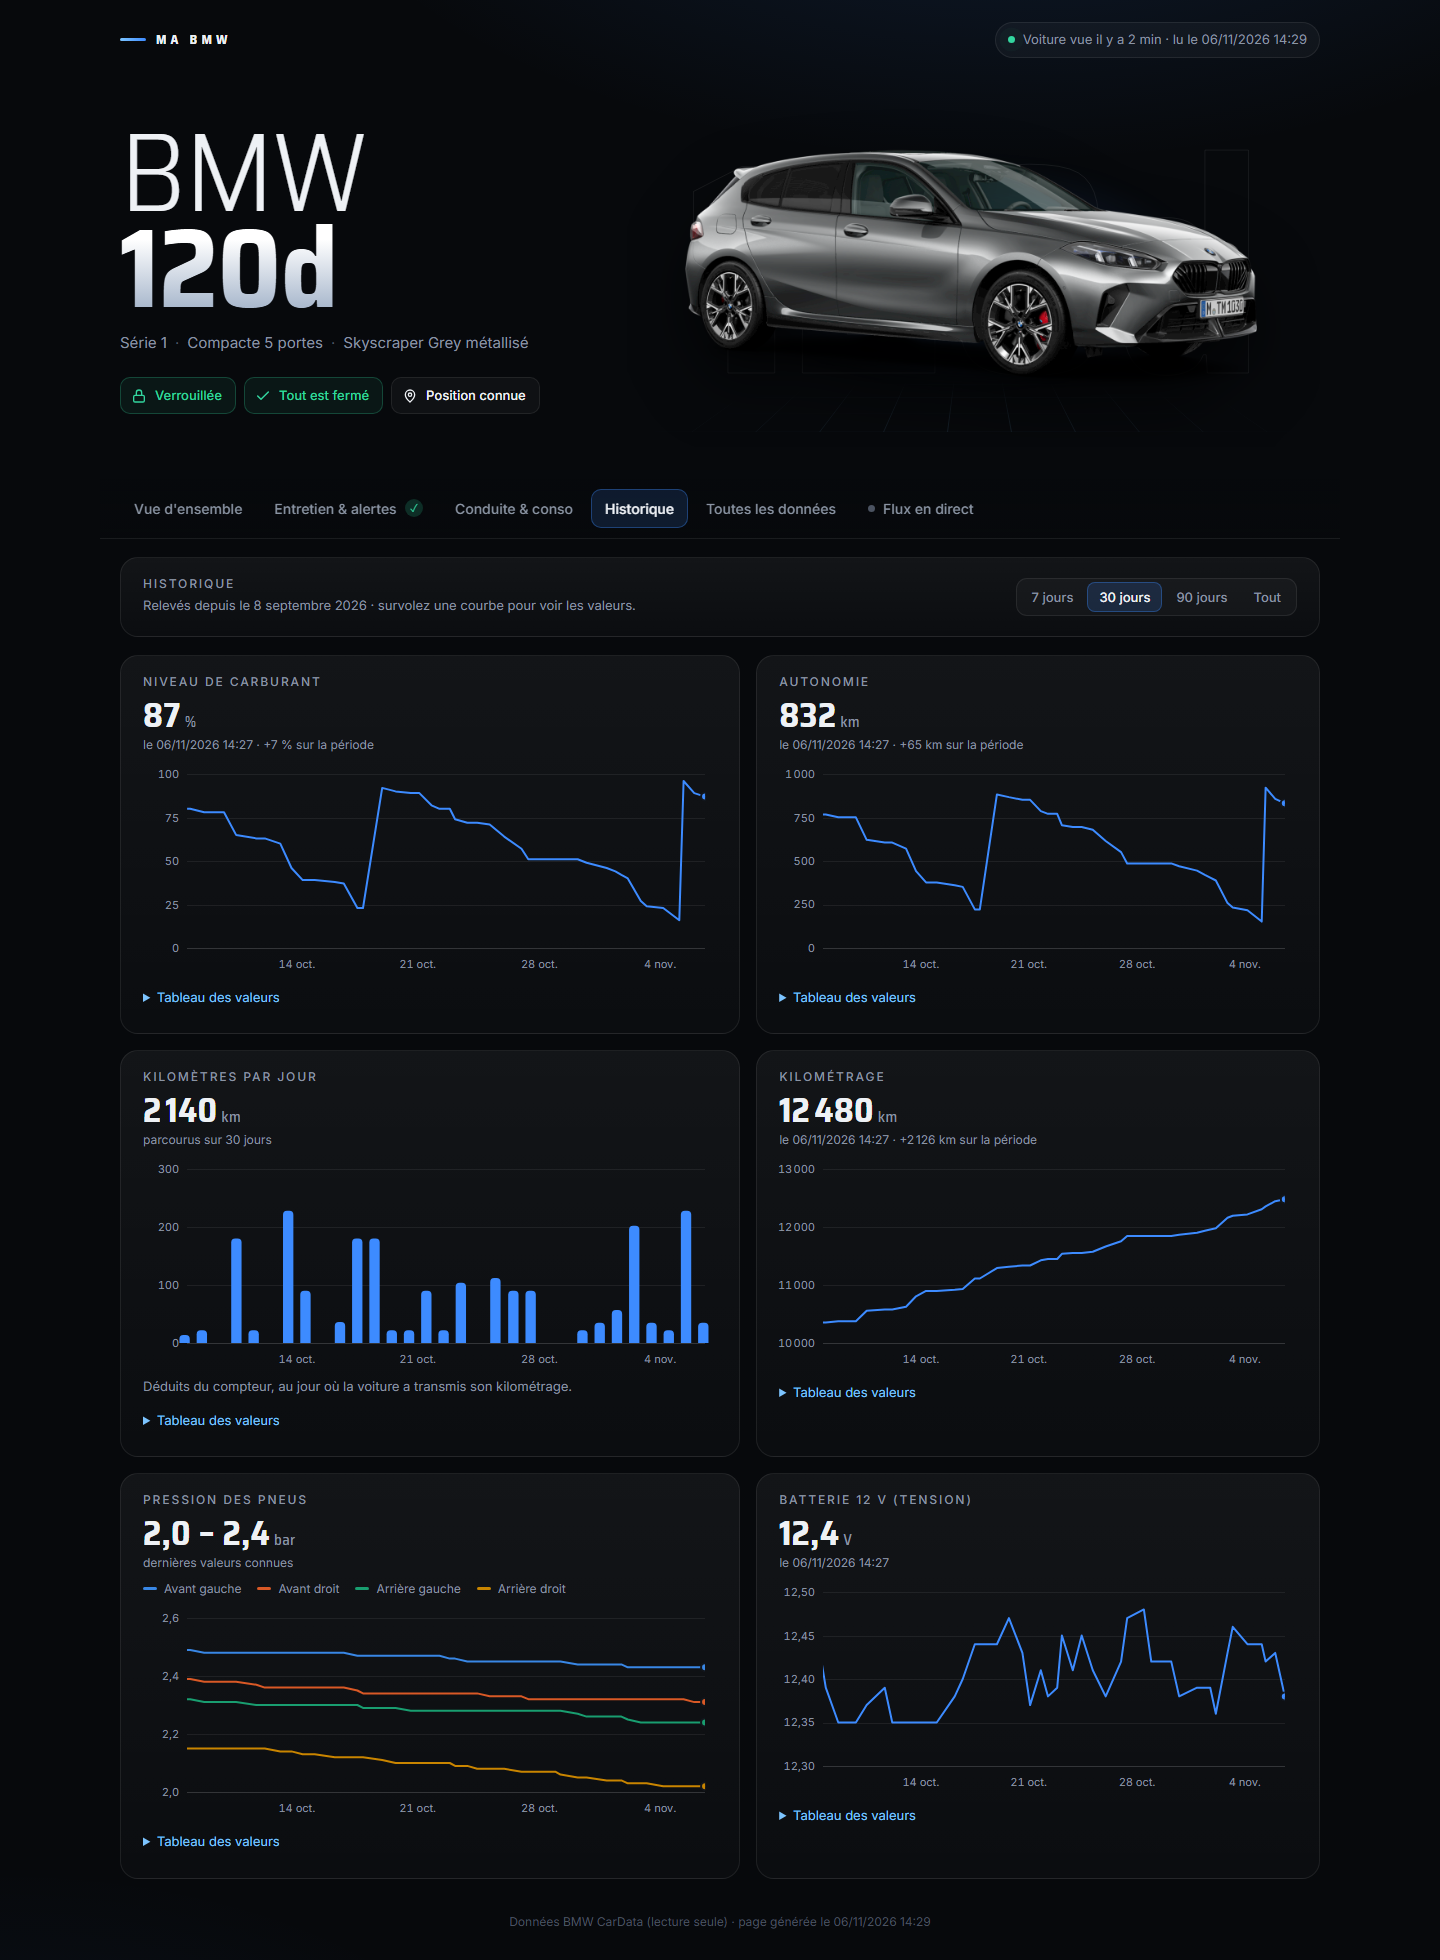
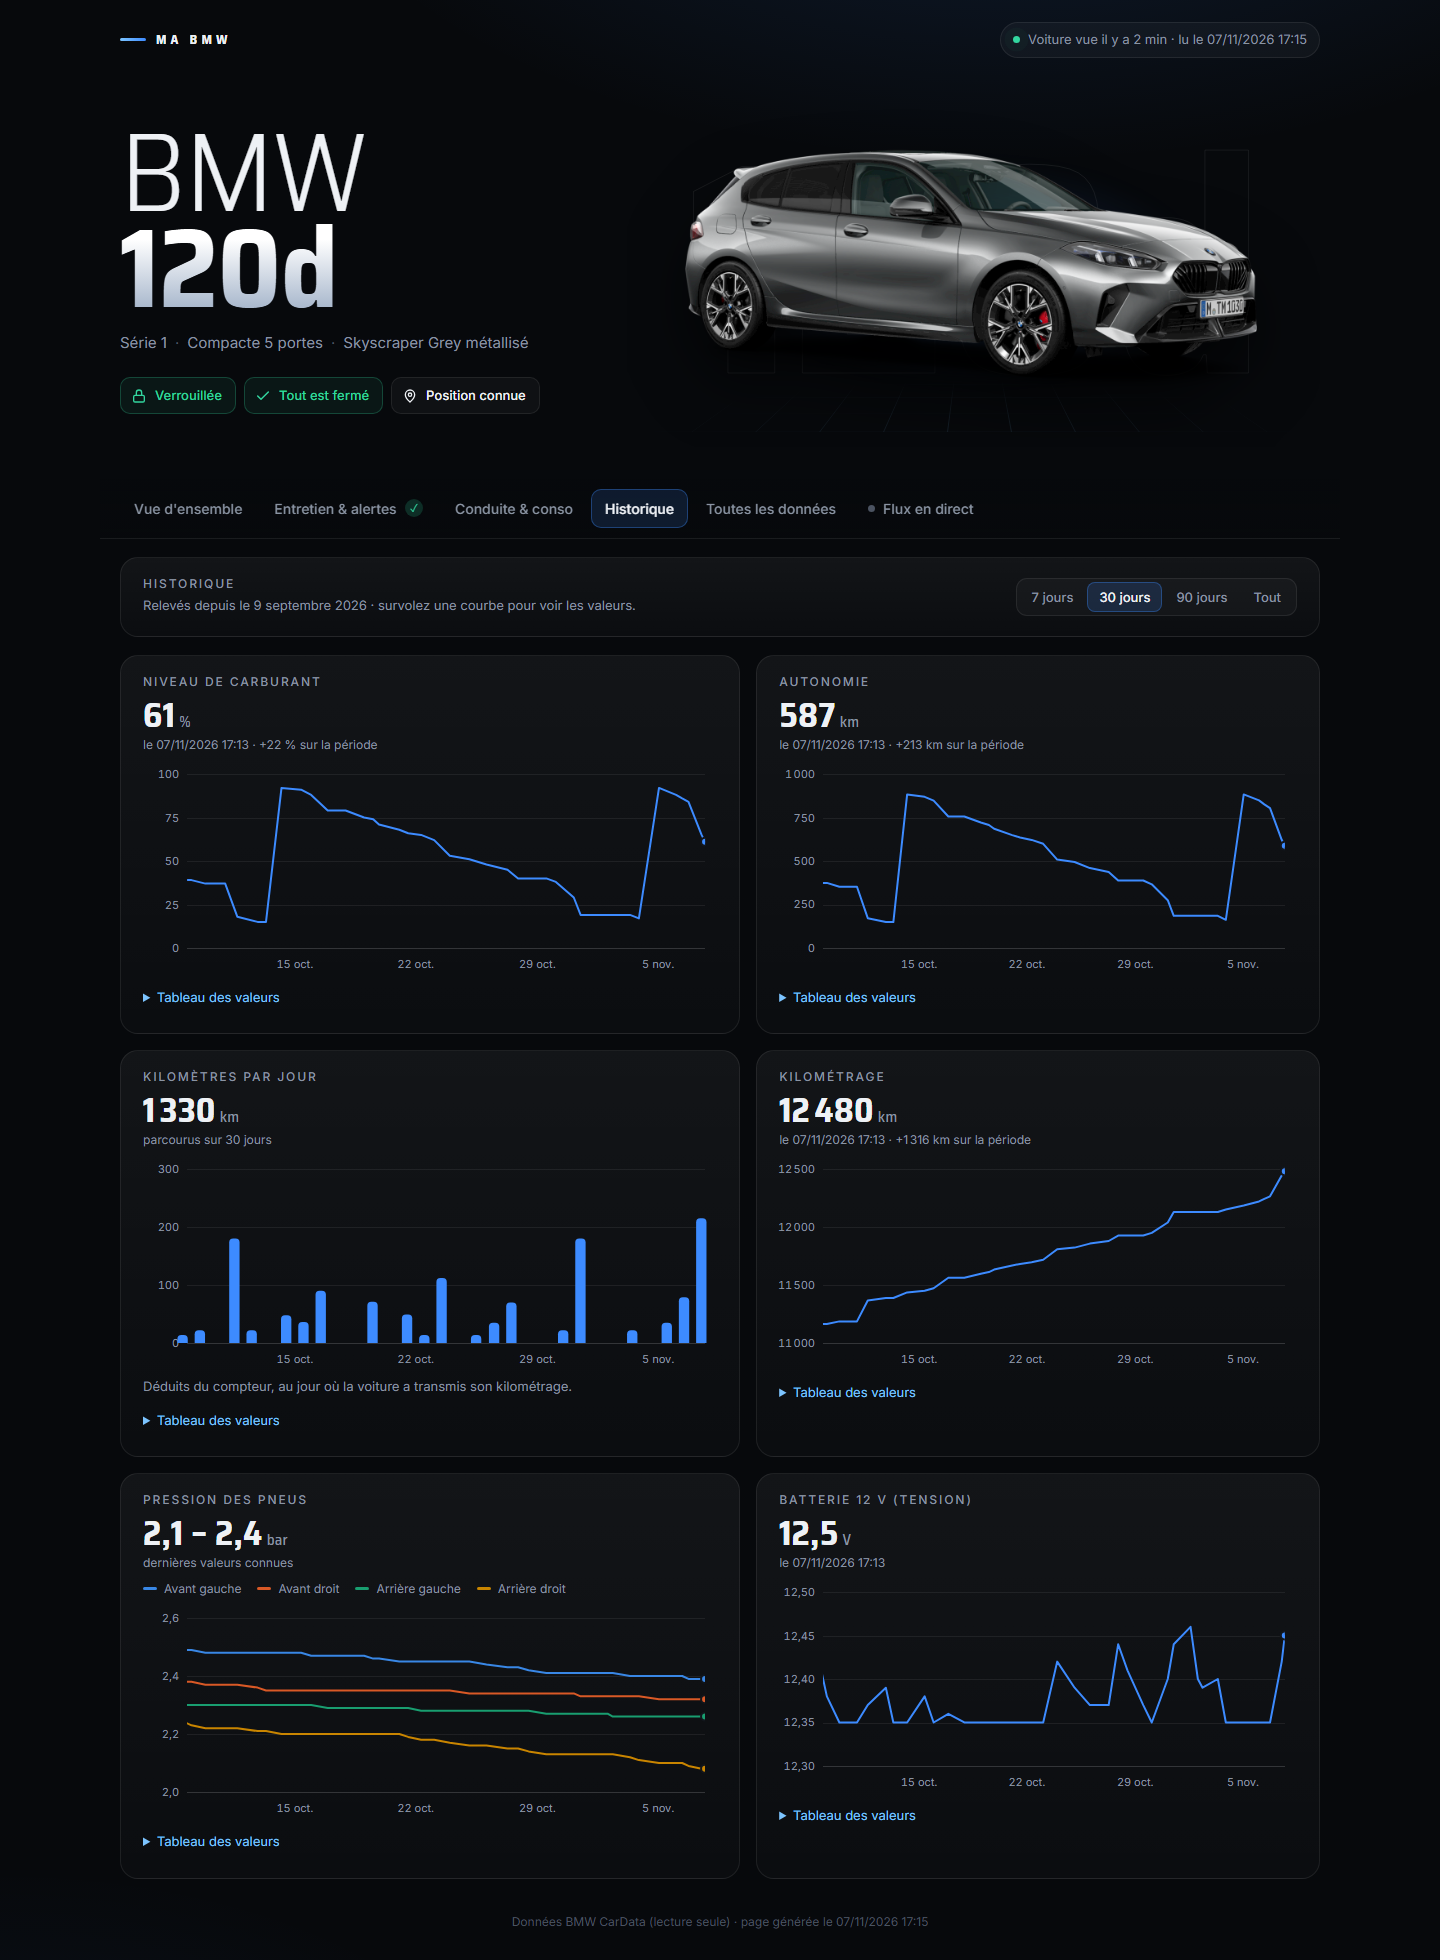
Conduite & conso : consommation estimée depuis le dernier plein
- BMW ne transmet ni la consommation depuis le plein ni celle du dernier
  trajet. since_refuel() l'estime d'après l'historique : plein repéré
  quand le niveau remonte d'au moins 10 points, % consommés convertis en
  litres, rapportés aux km parcourus, avec la marge d'erreur (niveau au
  % près). Sans plein dans l'historique, calcul depuis le premier relevé.
- Capacité du réservoir dans config.json (« tank_liters », facultatif) ;
  sans elle, la carte affiche le % du réservoir consommé.
- Démo : réservoir de 49 L et consommation réaliste ; captures refaites.
- README : description de la carte et de tank_liters.

diff --git a/dashboard_template.html b/dashboard_template.html
@@ -472,6 +472,11 @@ footer { color: var(--faint); font-size: 12px; text-align: center; padding: 34px
         <div class="hero-num num" id="conso">—</div>
         <div class="hint" id="consoHint"></div>
       </article>
+      <article class="card">
+        <h2 id="refuelTitle">Depuis le dernier plein <span class="tag">estimé</span></h2>
+        <div class="hero-num num" id="refuel">—</div>
+        <div class="hint" id="refuelHint"></div>
+      </article>
       <article class="card"><h2>Habitudes de conduite</h2><div id="habitList"></div></article>
       <article class="card">
         <h2>Orientation &amp; altitude</h2>
@@ -1077,6 +1082,26 @@ function renderItems(list) {
     $("conso").innerHTML = `${fmt(fuelL / refKm * 100, 1)}<small>L/100 km</small>`;
     $("consoHint").textContent = `${fmt(fuelL)} L consommés sur ${fmt(refKm)} km (compteur officiel OBFCM).`;
   } else $("consoHint").textContent = "Pas encore transmis par la voiture.";
+
+  /* conso depuis le plein : estimée par le script (niveau du réservoir en % et compteur) */
+  (() => {
+    const r = DATA.sinceRefuel, el = $("refuel"), hint = $("refuelHint");
+    if (!r) { hint.textContent = "Pas encore assez de relevés du niveau de carburant."; return; }
+    const since = new Date(r.since), when = isNaN(since) ? "" : since.toLocaleDateString("fr-FR", { day: "numeric", month: "long" });
+    if (!r.refuel) $("refuelTitle").firstChild.textContent = `Depuis le ${when} `;
+    const base = `${fmt(r.km)} km parcourus, niveau passé de ${fmt(r.startLevel)} % à ${fmt(r.level)} %`;
+    const from = r.refuel ? `Plein repéré le ${when}. ` : "Aucun plein repéré dans l'historique : calcul depuis le premier relevé. ";
+    if (!r.tank) {
+      el.innerHTML = `${fmt(r.usedPct)}<small>% du réservoir</small>`;
+      hint.textContent = `${from}${base}. Indiquez la capacité du réservoir (« tank_liters » dans config.json) pour obtenir des litres.`;
+    } else if (r.l100 == null || r.km < 20) {
+      el.innerHTML = `${fmt(r.liters, 1)}<small>L</small>`;
+      hint.textContent = `${from}${base}. Pas encore assez de kilomètres pour une consommation fiable.`;
+    } else {
+      el.innerHTML = `≈ ${fmt(r.l100, 1)}<small>L/100 km</small>`;
+      hint.textContent = `${from}≈ ${fmt(r.liters, 1)} L consommés en ${fmt(r.km)} km (niveau de ${fmt(r.startLevel)} % à ${fmt(r.level)} %, réservoir de ${fmt(r.tank)} L). Le niveau n'est connu qu'au % près : à ± ${fmt(r.margin, 1)} L/100 km, de plus en plus précis avec les kilomètres.`;
+    }
+  })();
 
   const km = num("vehicle.vehicle.travelledDistance");
   const lo = num("vehicle.vehicle.speedRange.lowerBound"), hi = num("vehicle.vehicle.speedRange.upperBound");

diff --git a/bmw_cardata.py b/bmw_cardata.py
@@ -680,6 +680,58 @@ def save_history(data, source, received=None):
         print(f"Base {HISTORY_DB.name} : écriture impossible ({e}).")
 
 
+REFUEL_MIN_RISE = 10  # hausse du niveau (points de %) qui signale un plein
+
+
+def since_refuel(telematic, tank_liters):
+    """Consommation estimée depuis le dernier plein, d'après le niveau du réservoir (en %) et le
+    compteur. BMW ne transmet pas cette donnée : le niveau n'a qu'une précision de 1 %, donc
+    l'estimation s'affine avec les kilomètres. Renvoie None s'il n'y a pas de quoi calculer."""
+    lvl_key, odo_key = "vehicle.drivetrain.fuelSystem.level", "vehicle.vehicle.travelledDistance"
+    series = {lvl_key: {}, odo_key: {}}
+    try:
+        with closing(open_db()) as db:
+            for k, t, v in db.execute("SELECT cle, t, valeur FROM mesures WHERE cle IN (?, ?)", (lvl_key, odo_key)):
+                if isinstance(v, (int, float)):
+                    series[k][t] = v
+    except sqlite3.Error as e:
+        print(f"Base {HISTORY_DB.name} : lecture impossible ({e}).")
+    for k in series:  # dernière valeur connue, au cas où elle ne serait pas encore dans la base
+        e = (telematic or {}).get(k)
+        dt = parse_time(e.get("timestamp")) if isinstance(e, dict) else None
+        if dt:
+            try:
+                series[k][dt.timestamp()] = float(e.get("value"))
+            except (TypeError, ValueError):
+                pass
+    lvl, odo = sorted(series[lvl_key].items()), sorted(series[odo_key].items())
+    if len(lvl) < 2 or not odo:
+        return None
+    start, refuel = 0, False
+    for i in range(1, len(lvl)):
+        if lvl[i][1] - lvl[i - 1][1] >= REFUEL_MIN_RISE:
+            start, refuel = i, True
+    t0, l0 = lvl[start]
+    # le niveau remonte parfois d'un point après le plein (voiture à plat) : on part du plus haut
+    l0 = max(v for t, v in lvl[start:] if t - t0 < 3600)
+    t1, l1 = lvl[-1]
+    before = [v for t, v in odo if t <= t0]
+    km0 = before[-1] if before else next((v for t, v in odo if t - t0 < 86400), None)
+    if km0 is None:
+        return None
+    km = max(0, odo[-1][1] - km0)
+    used_pct = max(0, l0 - l1)
+    out = {"since": datetime.fromtimestamp(t0, timezone.utc).isoformat(), "refuel": refuel,
+           "startLevel": l0, "level": l1, "km": km, "usedPct": used_pct, "tank": tank_liters}
+    if tank_liters:
+        out["liters"] = round(used_pct / 100 * tank_liters, 1)
+        if km > 0:
+            out["l100"] = round(out["liters"] / km * 100, 1)
+            # ±1 point de % à chaque bout : marge de l'estimation
+            out["margin"] = round(2 / 100 * tank_liters / km * 100, 1)
+    return out
+
+
 HISTORY_ONE_MAX = 5000  # valeurs renvoyées au plus pour une donnée (onglet « Toutes les données »)
 
 
@@ -758,6 +810,7 @@ def render_dashboard(vin, telematic, fetched_at, fetched_iso=None, live=False, p
         "catalogue": {k: v.get("name") for k, v in (load_json(CATALOGUE_FILE, {}) or {}).items()},
         "streamLog": list(LiveState.log)[-STREAM_LOG_IN_PAGE:] if live else read_stream_history(),
         "history": build_history(telematic),
+        "sinceRefuel": since_refuel(telematic, (load_json(CONFIG_FILE, {}) or {}).get("tank_liters")),
         "live": live,
     }
     blob = json.dumps(payload, ensure_ascii=False).replace("</", "<\\/")

diff --git a/outils/captures_demo.py b/outils/captures_demo.py
@@ -36,6 +36,8 @@ def build_page():
     b.LAST_FILE = OUT / "derniere_lecture.json"
     b.HISTORY_DB = OUT / "historique.db"
     b.HISTORY_DB.unlink(missing_ok=True)  # recréée à partir des journaux fictifs ci-dessous
+    b.CONFIG_FILE = OUT / "config.json"  # seulement la capacité du réservoir (conso depuis le plein)
+    b.CONFIG_FILE.write_text(json.dumps({"tank_liters": 49}), encoding="utf-8")
     b.PROFILE_FILE.write_text(json.dumps({
         "brand": "BMW", "modelName": "120d", "series": "1", "seriesDevt": "F70", "bodyType": "Sports Hatch",
         "numberOfDoors": 5, "driveTrain": "MHEV", "propulsionType": "DI", "engine": "B47L",
@@ -57,7 +59,7 @@ def build_page():
         t = min(t + timedelta(hours=random.uniform(6, 30)), end)
         km = random.choice([0, 0, 14, 22, 35, 48, 90, 180])
         odo += km
-        fuel -= km * 0.075
+        fuel -= km * 0.105  # % du réservoir de 49 L par km : environ 5,1 L/100 km
         if fuel < 14:
             fuel = random.choice([92, 96, 100])
         volt = min(12.9, max(12.35, volt + random.uniform(-.05, .05) + (.02 if km > 40 else -.015)))

diff --git a/README.md b/README.md
@@ -300,12 +300,15 @@ Avec `-AvecDonnees`, les données déjà présentes sur le serveur sont mises de
 |---|---|
 | **Vue d'ensemble** | Photo officielle de la voiture (commande `profile`), jauge de carburant, compteur, prochain entretien (les km restants donnés par BMW moins ceux parcourus depuis, marqués « estimé »), vue de dessus (portes, vitres, coffre, capot, toit ouvrant, pneus), carte de la position (déplaçable, avec un bouton pour recentrer sur la voiture), fiche technique |
 | **Entretien & alertes** | Voyants Check Control, entretien détaillé (huile, liquide de frein…), échéances, batteries, alarme, mémoire des défauts |
-| **Conduite & conso** | Consommation moyenne réelle (compteur officiel OBFCM), habitudes de conduite, cap et altitude, moteur, navigation, programmateurs de clim |
+| **Conduite & conso** | Consommation moyenne réelle (compteur officiel OBFCM), [consommation depuis le dernier plein](#conso-plein) (estimée), habitudes de conduite, cap et altitude, moteur, navigation, programmateurs de clim |
 | **Historique** | Graphiques sur 7, 30 ou 90 jours : carburant, autonomie, kilomètres par jour, kilométrage, pression des pneus, batterie 12 V. Valeurs au survol, et tableau des valeurs sous chaque graphique |
 | **Toutes les données** | La liste complète des valeurs connues, avec une recherche. Un clic sur une ligne déplie **toutes ses valeurs passées**, lues dans la [base](#base-historique) : une ligne par changement, les valeurs identiques qui se suivent étant regroupées (page en direct seulement ; une page ouverte comme fichier ne montre que les courbes de l'onglet Historique) |
 | **Flux en direct** | Chaque message MQTT reçu, regroupé par rafale, avec filtre, pause et repérage des données « hors tableau » |
 
 Une valeur transmise il y a plus de **7 jours** est signalée comme ancienne donnée.
+
+<a id="conso-plein"></a>
+**Consommation depuis le dernier plein.** BMW ne transmet ni cette valeur ni la consommation du dernier trajet. Le script l'estime à partir de l'historique : un plein est repéré quand le niveau du réservoir remonte d'au moins 10 points, puis les % consommés depuis sont convertis en litres et rapportés aux kilomètres parcourus. Indiquez pour cela la capacité du réservoir dans `config.json`, par exemple `"tank_liters": 49` pour une 120d F70. Sans cette valeur, la carte affiche seulement le % du réservoir consommé. Le niveau n'est connu qu'au % près : la marge d'erreur, affichée sur la carte, devient faible après quelques centaines de kilomètres. Si aucun plein n'est encore dans l'historique, le calcul part du premier relevé.
 
 <a id="base-historique"></a>
 ### 🗄 La base de l'historique (SQLite)
@@ -379,7 +382,7 @@ Les fichiers personnels sont exclus du dépôt par le [`.gitignore`](.gitignore)
 | Fichier | Contenu |
 |---|---|
 | `tokens.json` | Jetons de connexion BMW (**à ne jamais partager**) |
-| `config.json` | Client ID, VIN, identifiant du conteneur |
+| `config.json` | Client ID, VIN, identifiant du conteneur, capacité du réservoir (`tank_liters`, facultatif) |
 | `derniere_lecture.json` | Dernières données connues, dont la position GPS |
 | `historique.db` | Base SQLite de toutes les valeurs reçues, dont les positions GPS successives |
 | `historique_stream.jsonl` | Journal brut des messages reçus en direct |
